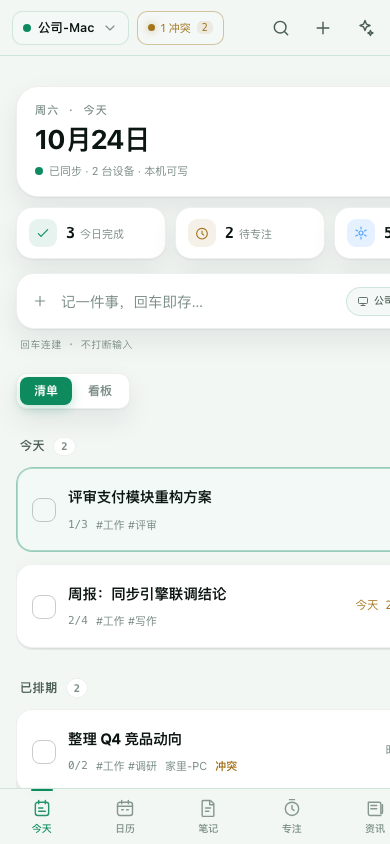
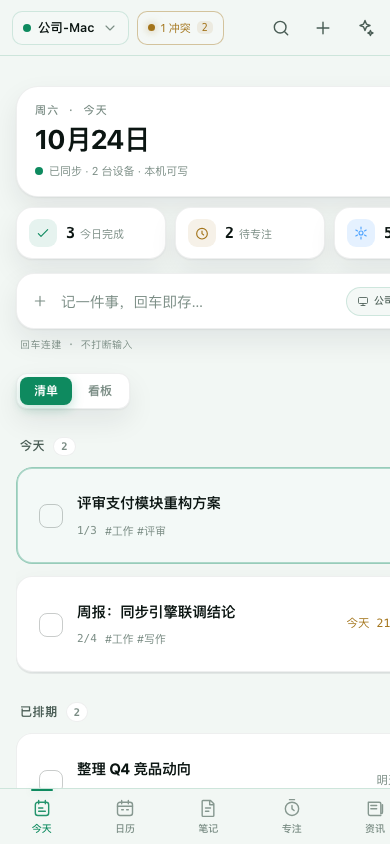
fix(prototype): 清单卡片内边距加大（内容离边框太近）
- 卡片内边距 18/15 → 24/22px
- 勾选框与标题间距 12 → 14px
- 行高 81 → 约 100px，内容不再贴边
- verify ALL_PASS

diff --git a/docs/prototype/index.html b/docs/prototype/index.html
@@ -1081,9 +1081,10 @@ body{
   border:1px solid var(--card-line);
   border-radius:16px;
   box-shadow:var(--sh);
-  padding:18px 15px;
+  padding:24px 22px;
   margin:0 0 12px;
   min-height:0;
+  gap:14px;
   transition:border-color var(--t-fast) var(--ease-out),transform var(--t-fast) var(--ease-out),box-shadow var(--t-fast) var(--ease-out);
 }
 .lbody .trow:last-child{margin-bottom:2px}
